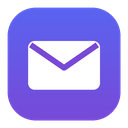
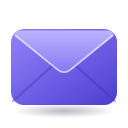
Missiva 0.3.541

diff --git a/Core/DevTools.Icona.cs b/Core/DevTools.Icona.cs
@@ -1,0 +1,109 @@
+#if DEBUG
+using System.Windows;
+using System.Windows.Media;
+using System.Windows.Media.Imaging;
+
+namespace Missiva;
+
+static partial class DevTools
+{
+    /// <summary>
+    /// L'icona di Missiva dai suoi disegni in Assets\icona (16 ottobre 2026: icona Fluent, la busta viola senza il quadrato
+    /// dietro, scelta dall'autore fra tre proposte): missiva.svg per 64 pixel e oltre, missiva-32.svg per 32-48 e
+    /// missiva-16.svg per 16-24, perché a quelle misure i dettagli del disegno grande si impastano. Disegnati con
+    /// SharpVectors e WPF come i loghi dei mittenti. Escono missiva.ico con le nove misure dell'icona di prima (fino a 64
+    /// pixel in BMP a 32 bit, 128 e 256 in PNG), missiva-128.png per la barra del titolo e una PNG per misura da guardare.
+    /// Solo Debug: Missiva.exe --icona cartella-dei-disegni cartella-di-uscita (con MISSIVA_DATA, come gli altri strumenti).
+    /// </summary>
+    static void DrawIcon(string sources, string output)
+    {
+        Directory.CreateDirectory(output);
+        var cache = new Dictionary<string, (DrawingGroup Drawing, double Side)>();
+        (DrawingGroup Drawing, double Side) Load(string name)
+        {
+            if (cache.TryGetValue(name, out var known)) return known;
+            var settings = new SharpVectors.Renderers.Wpf.WpfDrawingSettings
+            {
+                IncludeRuntime = false, TextAsGeometry = true, CanUseBitmap = false,
+                ExternalResourcesAccessMode = SharpVectors.Dom.ExternalResourcesAccessModes.Ignore,
+            };
+            var drawing = new SharpVectors.Converters.FileSvgReader(settings).Read(Path.Combine(sources, name))
+                          ?? throw new InvalidOperationException($"{name}: SharpVectors non l'ha letto");
+            // Il lato del disegno è quello del viewBox, quadrato: ogni disegno ha un rettangolo trasparente grande quanto la tela,
+            // così i limiti del disegno sono la tela e l'icona non si sposta né si allarga.
+            var side = Math.Round(Math.Max(drawing.Bounds.Right, drawing.Bounds.Bottom));
+            Console.WriteLine($"{name}: limiti {drawing.Bounds}, lato {side}");
+            return cache[name] = (drawing, side);
+        }
+
+        int[] sizes = [16, 20, 24, 32, 40, 48, 64, 128, 256];
+        var frames = new List<(int Size, byte[] Data)>();
+        foreach (var size in sizes)
+        {
+            var (drawing, side) = Load(size <= 24 ? "missiva-16.svg" : size <= 48 ? "missiva-32.svg" : "missiva.svg");
+            var visual = new DrawingVisual();
+            using (var dc = visual.RenderOpen())
+            {
+                dc.PushTransform(new ScaleTransform(size / side, size / side));
+                dc.DrawDrawing(drawing);
+                dc.Pop();
+            }
+            var rendered = new RenderTargetBitmap(size, size, 96, 96, PixelFormats.Pbgra32);
+            rendered.Render(visual);
+            var straight = new FormatConvertedBitmap(rendered, PixelFormats.Bgra32, null, 0);
+            var png = Png(straight);
+            File.WriteAllBytes(Path.Combine(output, $"missiva-{size}.png"), png);
+            frames.Add((size, size <= 64 ? Dib(straight, size) : png));
+        }
+        File.WriteAllBytes(Path.Combine(output, "missiva.ico"), Ico(frames));
+        Console.WriteLine($"scritti missiva.ico ({frames.Count} misure) e le PNG in {output}");
+    }
+
+    static byte[] Png(BitmapSource bitmap)
+    {
+        var encoder = new PngBitmapEncoder();
+        encoder.Frames.Add(BitmapFrame.Create(bitmap));
+        using var stream = new MemoryStream();
+        encoder.Save(stream);
+        return stream.ToArray();
+    }
+
+    /// <summary>Un'immagine dell'icona come la vuole il formato ICO per le misure piccole: intestazione BMP, pixel BGRA dal basso, maschera.</summary>
+    static byte[] Dib(BitmapSource bitmap, int size)
+    {
+        var pixels = new byte[size * size * 4];
+        bitmap.CopyPixels(pixels, size * 4, 0);
+        int maskStride = (size + 31) / 32 * 4;
+        using var stream = new MemoryStream();
+        using var writer = new BinaryWriter(stream);
+        writer.Write(40); writer.Write(size); writer.Write(size * 2); writer.Write((short)1); writer.Write((short)32);
+        writer.Write(0); writer.Write(size * size * 4 + maskStride * size); writer.Write(0); writer.Write(0); writer.Write(0); writer.Write(0);
+        for (int y = size - 1; y >= 0; y--) writer.Write(pixels, y * size * 4, size * 4);
+        for (int y = size - 1; y >= 0; y--)
+        {
+            var row = new byte[maskStride];
+            for (int x = 0; x < size; x++)
+                if (pixels[(y * size + x) * 4 + 3] == 0) row[x / 8] |= (byte)(0x80 >> (x % 8));
+            writer.Write(row);
+        }
+        return stream.ToArray();
+    }
+
+    static byte[] Ico(List<(int Size, byte[] Data)> frames)
+    {
+        using var stream = new MemoryStream();
+        using var writer = new BinaryWriter(stream);
+        writer.Write((short)0); writer.Write((short)1); writer.Write((short)frames.Count);
+        int offset = 6 + 16 * frames.Count;
+        foreach (var (size, data) in frames)
+        {
+            writer.Write((byte)(size >= 256 ? 0 : size)); writer.Write((byte)(size >= 256 ? 0 : size));
+            writer.Write((byte)0); writer.Write((byte)0); writer.Write((short)1); writer.Write((short)32);
+            writer.Write(data.Length); writer.Write(offset);
+            offset += data.Length;
+        }
+        foreach (var (_, data) in frames) writer.Write(data);
+        return stream.ToArray();
+    }
+}
+#endif

diff --git a/Core/ProvaBozze.cs b/Core/ProvaBozze.cs
@@ -3683,6 +3683,19 @@ static partial class ProvaBozze
     static async Task PecTestsAsync()
     {
         Report.Add("--- Posta certificata e file firmati");
+        // Le parti tecniche della busta e della firma non sono pastiglie nell'elenco, come nel riquadro (16 ottobre 2026, scelta dell'autore).
+        var envelopeNames = new List<string> { "postacert.eml", "daticert.xml", "smime.p7s" };
+        var signedNames = new List<string> { "Preventivo.pdf", "smime.p7s" };
+        var normalNames = new List<string> { "postacert.eml", "foto.jpg" };
+        var pecAccount = new UI.AccountItem(new ImapProvider(new MailAccount { Kind = AccountKind.Imap, Email = "ada@pec-prova.example", Imap = new ImapServer() }));
+        var pecRow = new UI.MessageItem(new MessageSummary { Id = "pec", FolderId = "INBOX", HasAttachments = true, AttachmentNames = envelopeNames }, pecAccount);
+        var signedRow = new UI.MessageItem(new MessageSummary { Id = "firmato", FolderId = "INBOX", HasAttachments = true, AttachmentNames = signedNames }, pecAccount);
+        Check(!Pec.ShownAttachments(envelopeNames).Any() && Pec.ShownAttachments(signedNames).SequenceEqual(new[] { "Preventivo.pdf" })
+              && Pec.ShownAttachments(normalNames).SequenceEqual(normalNames)
+              && pecRow.AttachmentChips.Count == 0 && pecRow.AttachmentVisibility == System.Windows.Visibility.Visible
+              && signedRow.AttachmentChips.Select(c => c.Name).SequenceEqual(new[] { "Preventivo.pdf" }),
+              "elenco: la busta di una PEC e la firma di un messaggio firmato non danno pastiglie (daticert.xml, smime.p7s, il postacert.eml della busta); " +
+              "un postacert.eml fuori da una busta e gli allegati veri sì; la graffetta resta");
         var keys = new PecKeys();
         MessageBody Opened(byte[] raw, out MessageSummary summary)
         {

diff --git a/Core/Pec.cs b/Core/Pec.cs
@@ -61,6 +61,19 @@ public static class Pec
         || contentType.Equals("application/pkcs7-signature", StringComparison.OrdinalIgnoreCase)
         || contentType.Equals("application/x-pkcs7-signature", StringComparison.OrdinalIgnoreCase);
 
+    /// <summary>
+    /// I nomi degli allegati come li mostrano l'elenco (le pastiglie), i suggerimenti della ricerca e la scheda della
+    /// persona: senza le parti tecniche della busta PEC e della firma S/MIME, come il riquadro (IsSignaturePart: daticert.xml
+    /// e le firme .p7s; nella busta di una PEC anche postacert.eml, che il riquadro apre come il messaggio vero). Dal 16
+    /// ottobre 2026, scelta dell'autore: prima l'elenco mostrava le pastiglie daticert.xml e smime.p7s. La graffetta resta:
+    /// dentro postacert.eml possono esserci allegati veri, e dall'elenco non si vedono.
+    /// </summary>
+    public static IEnumerable<string> ShownAttachments(IReadOnlyList<string> names)
+    {
+        bool envelope = names.Any(n => n.Equals("daticert.xml", StringComparison.OrdinalIgnoreCase));
+        return names.Where(n => !IsSignaturePart(n, "") && !(envelope && n.Equals("postacert.eml", StringComparison.OrdinalIgnoreCase)));
+    }
+
     /// <summary>Un messaggio da aprire come PEC o come messaggio firmato: la busta ha daticert.xml, o la firma smime.p7s.</summary>
     public static bool Wants(MessageBody body) => body.Pec == null && body.Attachments.Any(a => IsSignaturePart(a.Name, a.ContentType));
 

diff --git a/UI/ViewModels.cs b/UI/ViewModels.cs
@@ -894,8 +894,11 @@ public sealed class MessageItem : Observable
     public double PreviewHeight => S.PreviewLines >= 2 ? SmallFontSize * 2.8 : double.NaN;
     public Visibility AvatarVisibility => S.ShowSenderImages && !IsChild ? Visibility.Visible : Visibility.Collapsed;
     List<AttachmentChip>? attachmentChips;
-    /// <summary>Le pastiglie degli allegati, fatte una volta per riga: i nomi non cambiano e ogni lettura ne faceva di nuove (la riga le legge due volte).</summary>
-    public List<AttachmentChip> AttachmentChips => attachmentChips ??= S.ShowAttachmentPreviews ? Summary.AttachmentNames.Take(3).Select(n => new AttachmentChip(n)).ToList() : new();
+    /// <summary>
+    /// Le pastiglie degli allegati, fatte una volta per riga: i nomi non cambiano e ogni lettura ne faceva di nuove (la riga
+    /// le legge due volte). Senza le parti tecniche della posta certificata e delle firme (Pec.ShownAttachments), come nel riquadro.
+    /// </summary>
+    public List<AttachmentChip> AttachmentChips => attachmentChips ??= S.ShowAttachmentPreviews ? Pec.ShownAttachments(Summary.AttachmentNames).Take(3).Select(n => new AttachmentChip(n)).ToList() : new();
     public Visibility ChipsVisibility => AttachmentChips.Count > 0 ? Visibility.Visible : Visibility.Collapsed;
 
     /// <summary>La riga dell'oggetto è blu quando il messaggio non è letto, come in Outlook.</summary>

diff --git a/UI/PersonCard.cs b/UI/PersonCard.cs
@@ -200,7 +200,7 @@ public sealed class PersonCard : Window
                 row.Children.Add(text);
                 messages.Children.Add(Opener(row, m, $"{m.Subject}, {m.Date:d MMM yyyy}"));
             }
-            var names = found.SelectMany(m => m.AttachmentNames.Select(n => (Name: n, Message: m))).Take(8).ToList();
+            var names = found.SelectMany(m => Pec.ShownAttachments(m.AttachmentNames).Select(n => (Name: n, Message: m))).Take(8).ToList();
             if (names.Count == 0) files.Children.Add(Secondary("Nessun allegato nei messaggi trovati."));
             foreach (var (name, m) in names)
             {

diff --git a/UI/MainWindow.Suggestions.cs b/UI/MainWindow.Suggestions.cs
@@ -286,7 +286,7 @@ public partial class MainWindow
     {
         var words = typed.Split(' ', StringSplitOptions.RemoveEmptyEntries);
         foreach (var m in messages)
-            foreach (var name in m.AttachmentNames.Distinct(StringComparer.OrdinalIgnoreCase))
+            foreach (var name in Pec.ShownAttachments(m.AttachmentNames).Distinct(StringComparer.OrdinalIgnoreCase))
             {
                 if (!words.All(w => name.Contains(w, StringComparison.CurrentCultureIgnoreCase))) continue;
                 var chip = new AttachmentChip(name);

diff --git a/Core/DevTools.cs b/Core/DevTools.cs
@@ -51,6 +51,12 @@ static partial class DevTools
             ProvaBozze.VerifyPackage(package, publicKey, packageOutput);
             return true;
         }
+        // L'icona di Missiva dai disegni di Assets\icona (DevTools.Icona.cs).
+        if (args is ["--icona", var iconSources, var iconOutput])
+        {
+            DrawIcon(iconSources, iconOutput);
+            return true;
+        }
         if (args is ["--scrivi-inviti", var folder, ..])
         {
             ProvaBozze.WriteInvites(folder);
